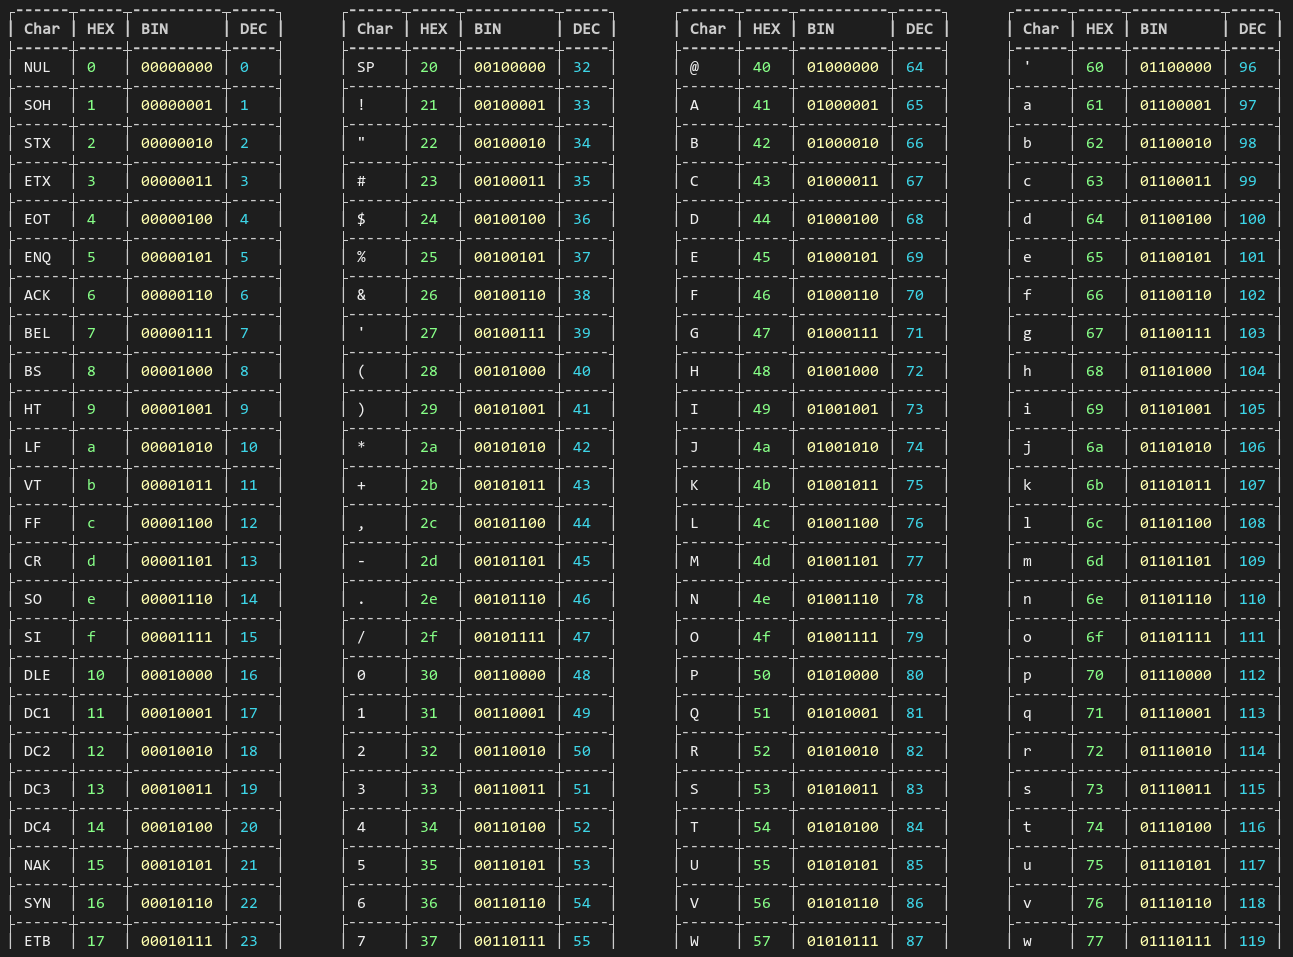
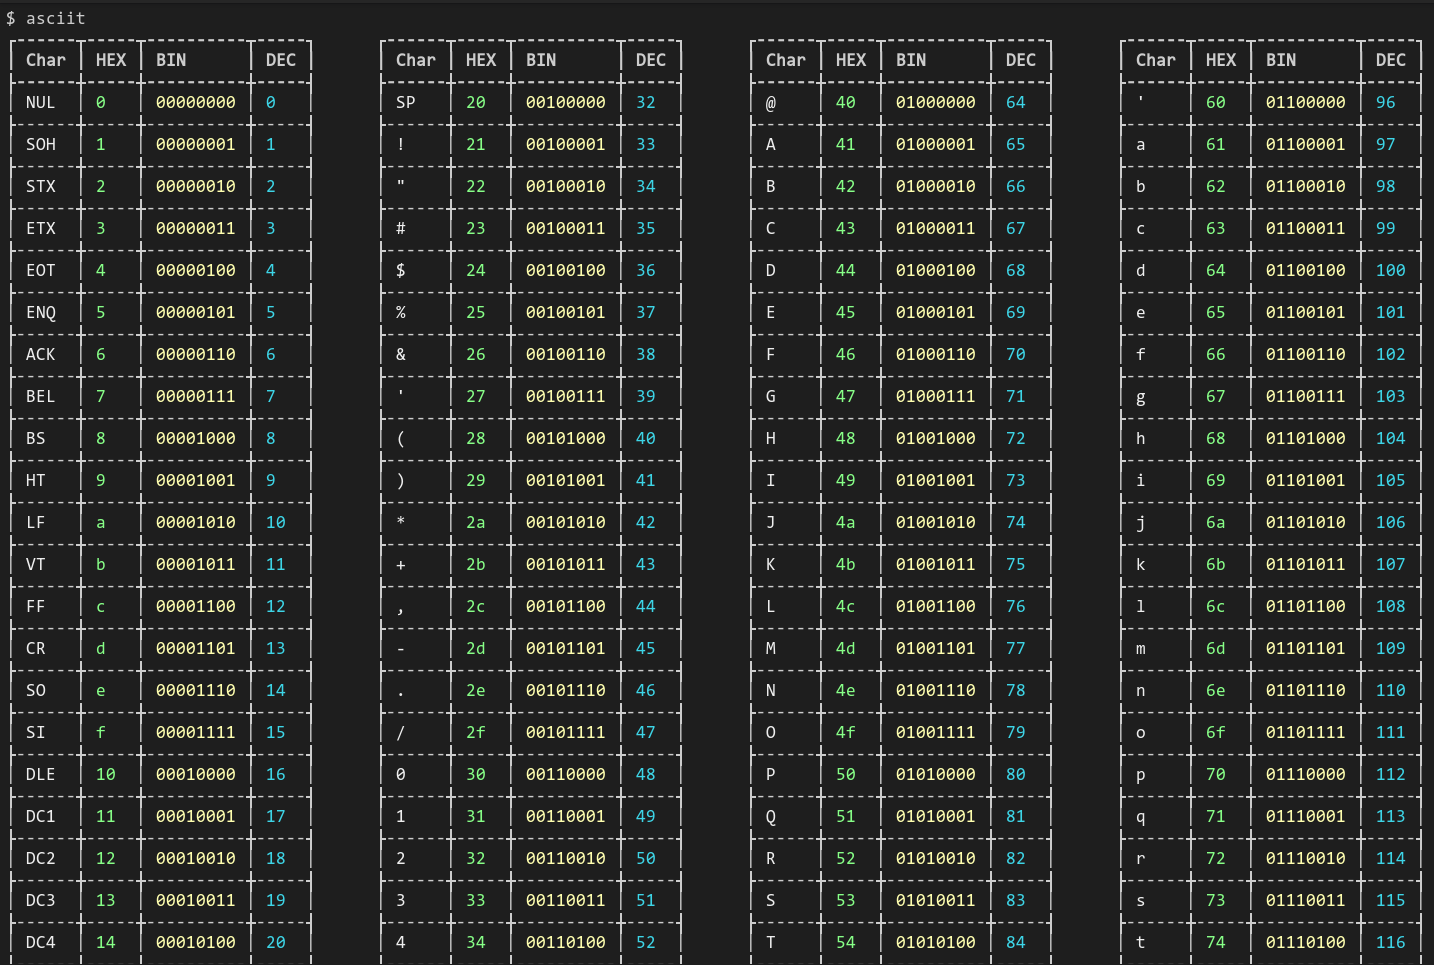
README: update showcase picture and add 'Download' section

diff --git a/README.md b/README.md
@@ -1,1 +1,6 @@
+# Download 
+[https://github.com/a-marigold/asciit/releases/tag/v1.0.0](https://github.com/a-marigold/asciit/releases/tag/v1.0.0)
+
+# Usage
+
 <img align="center" src="assets/showcase.png" alt="'asciit' utility terminal showcase">
